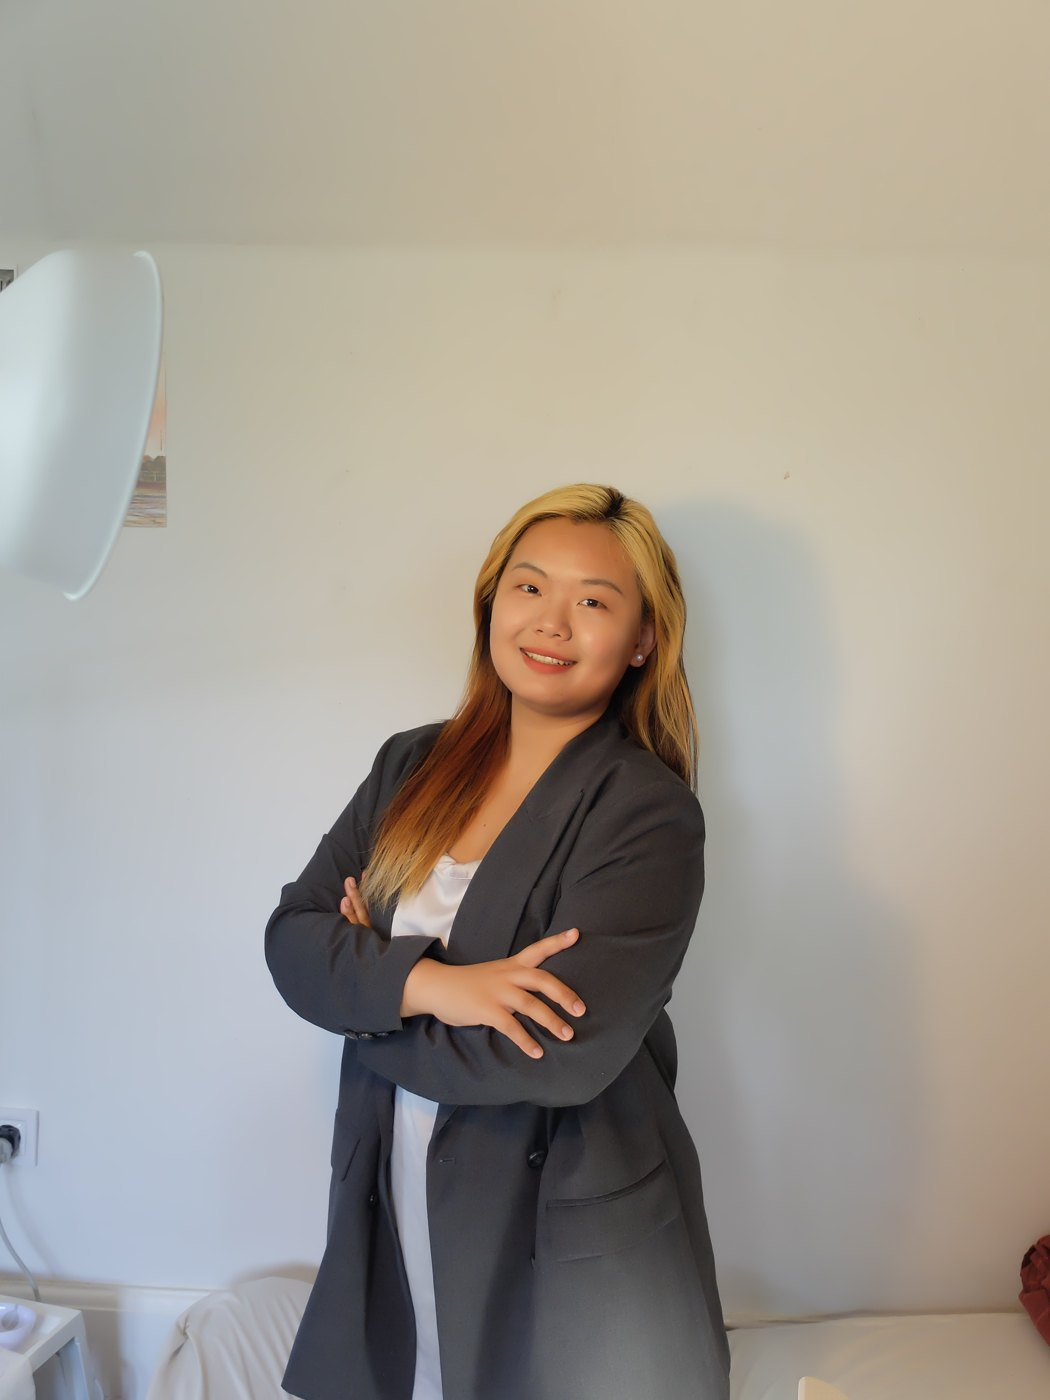
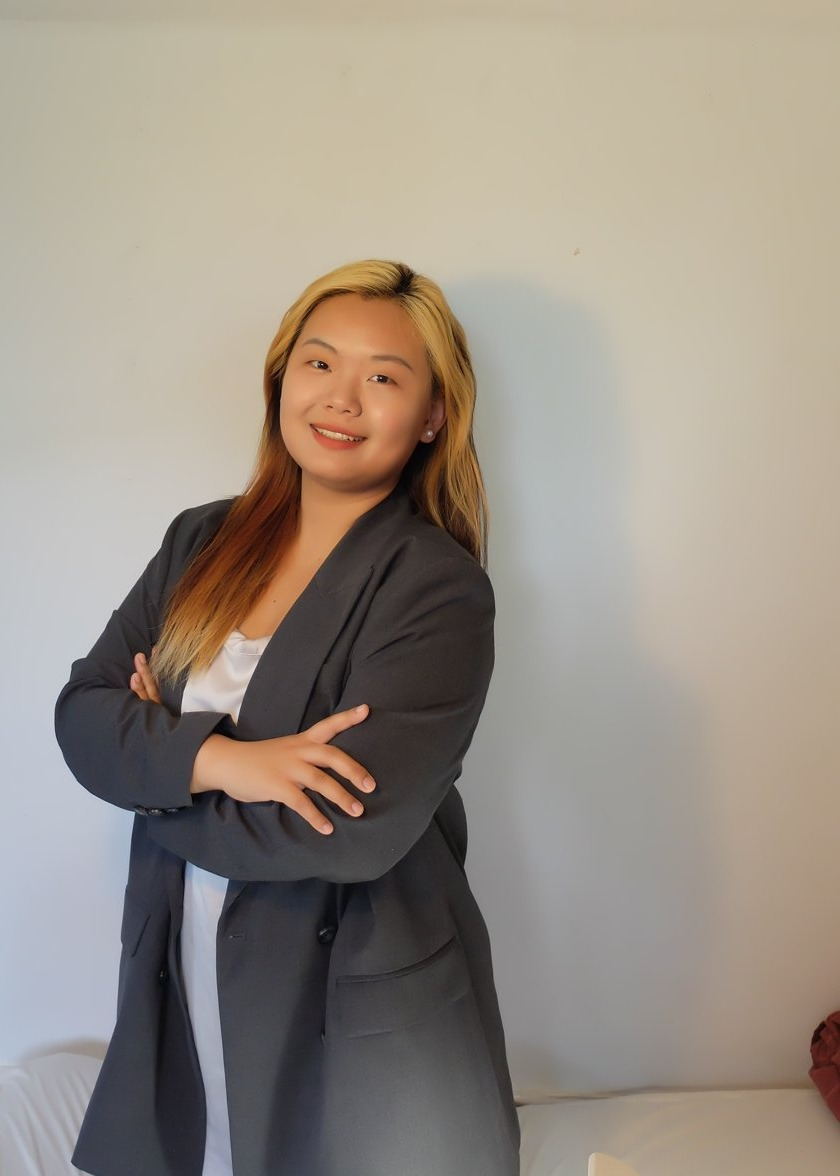
Crop lamp out of hero portrait source image
The lamp shade in the top-left corner was still visible through the
circular mask because the mask/position tuning alone couldn't fully
hide it. Cropped the lamp out of portrait.jpg directly and simplified
the CSS framing to match.

diff --git a/index.html b/index.html
@@ -43,14 +43,14 @@
 
   .hero-photo{position:absolute;z-index:0;top:0;bottom:0;left:52%;width:42%;transition:left .6s cubic-bezier(.4,0,.2,1)}
   header.ring-open .hero-photo{left:29%}
-  .hero-photo img{width:100%;height:100%;object-fit:cover;object-position:62% 24%;transform:scale(1.28);
-    -webkit-mask-image:radial-gradient(circle at 50% 44%,#000 34%,transparent 62%);
-    mask-image:radial-gradient(circle at 50% 44%,#000 34%,transparent 62%)}
+  .hero-photo img{width:100%;height:100%;object-fit:cover;object-position:48% 30%;transform:scale(1.08);
+    -webkit-mask-image:radial-gradient(circle at 50% 40%,#000 38%,transparent 64%);
+    mask-image:radial-gradient(circle at 50% 40%,#000 38%,transparent 64%)}
   .hero-photo::after{content:none}
   @media (max-width:860px){
     .hero-photo{position:relative;width:100%;order:-1;margin-bottom:6px;left:auto!important;transition:none}
     header.ring-open .hero-photo{left:auto}
-    .hero-photo img{height:auto;aspect-ratio:1/1;border-radius:50%;object-position:62% 24%;transform:scale(1.28);
+    .hero-photo img{height:auto;aspect-ratio:1/1;border-radius:50%;object-position:48% 30%;transform:scale(1.08);
       -webkit-mask-image:none;mask-image:none;box-shadow:0 24px 60px rgba(90,70,100,0.18);max-width:280px;margin:0 auto;display:block}
     .hero-photo::after{display:none}
   }
